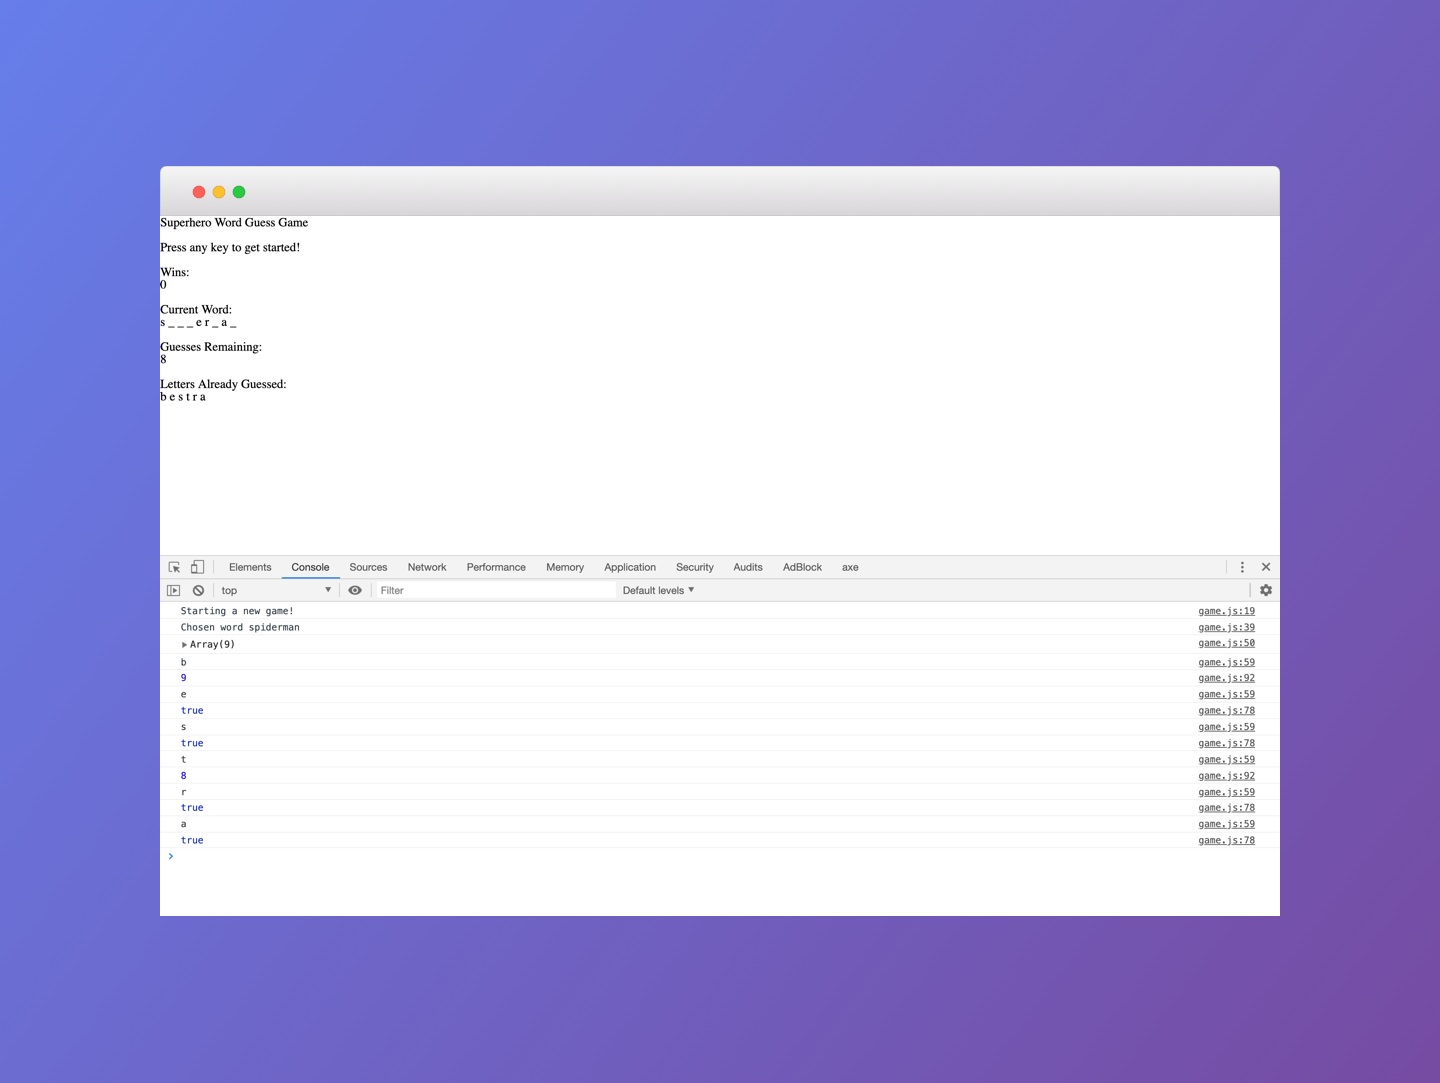
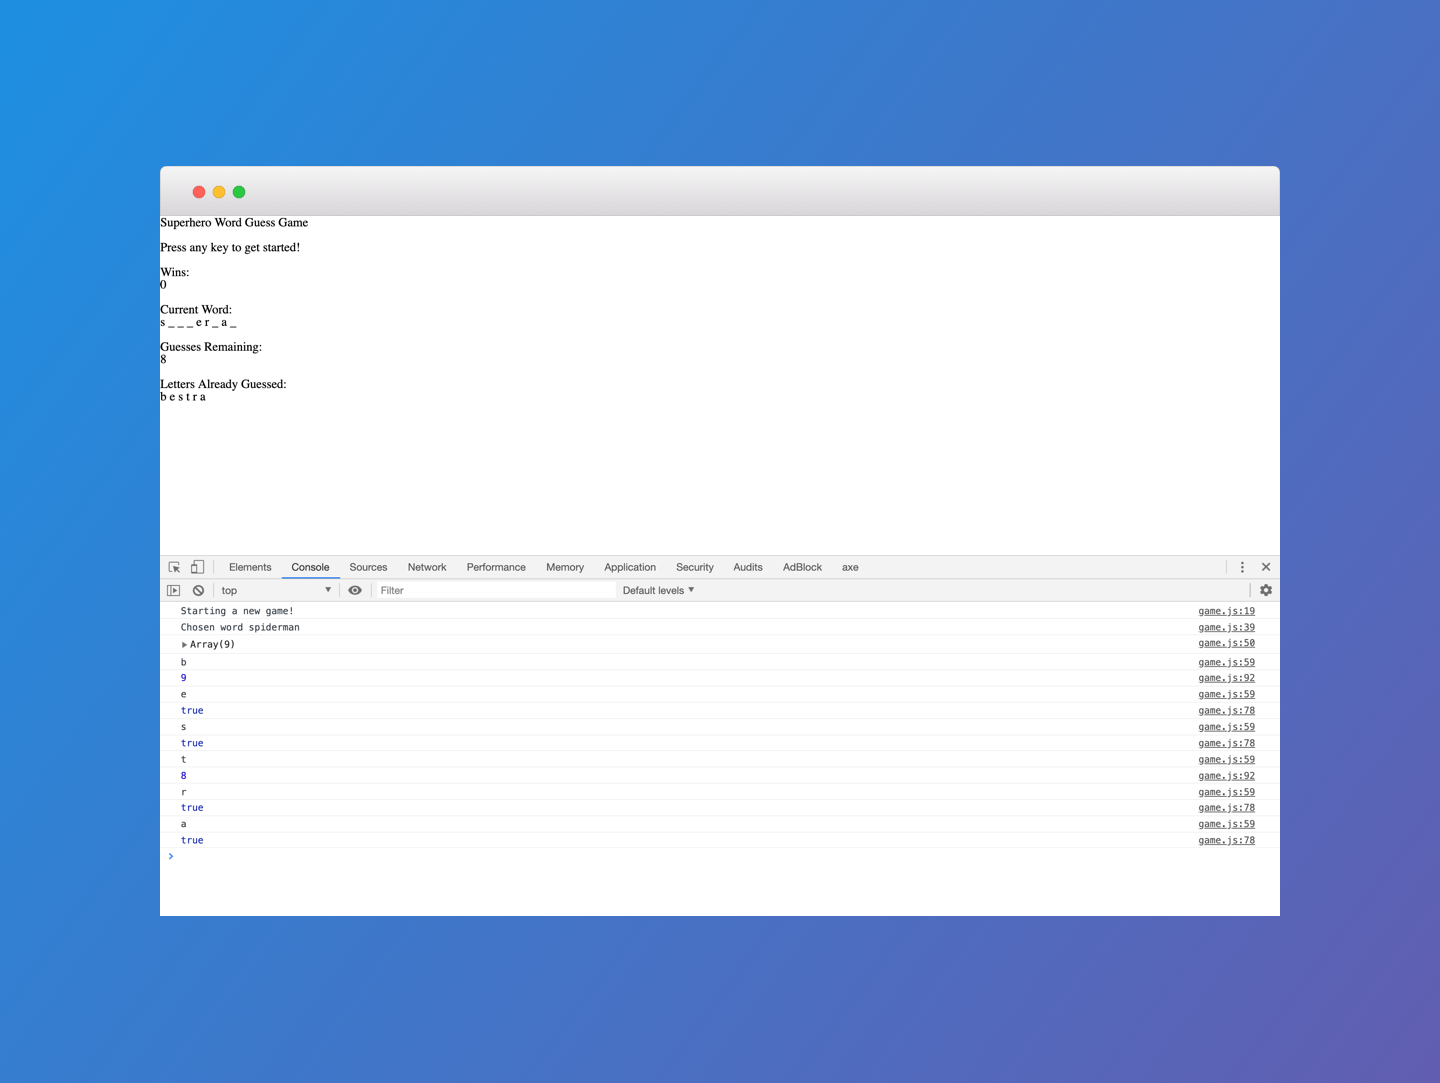
Changed color scheme

diff --git a/assets/css/style.css b/assets/css/style.css
@@ -25,7 +25,7 @@
 }
 
 header {
-  background: linear-gradient(160deg, rgba(102, 126, 234, 0.5), rgba(118, 75, 162, 0.5));
+  background: linear-gradient(160deg, rgba(29, 143, 225, 0.8), rgba(98, 94, 177, 0.8));
   z-index: 9999;
   height: 68px;
   position: fixed;
@@ -39,7 +39,7 @@ header {
 }
 
 .navbar {
-  background: linear-gradient(160deg, rgba(102, 126, 234, 0.9), rgba(118, 75, 162, 0.9));
+  background: linear-gradient(160deg, rgba(29, 143, 225, 0.9), rgba(98, 94, 177, 0.9));
 }
 
 /* --------------- Images --------------- */
@@ -141,7 +141,7 @@ p {
 }
 
 .featured-work-title {
-  color: #667EEA;
+  color: #1D8FE1;
   font-family: 'Lato', sans-serif;
   font-weight: 700;
   text-align: center;
@@ -271,7 +271,7 @@ p {
     padding: 30px 0;
   }
   .description_div {
-    width: 75%;
+    width: 80%;
     margin-top: 25px;
   }
   #work {
